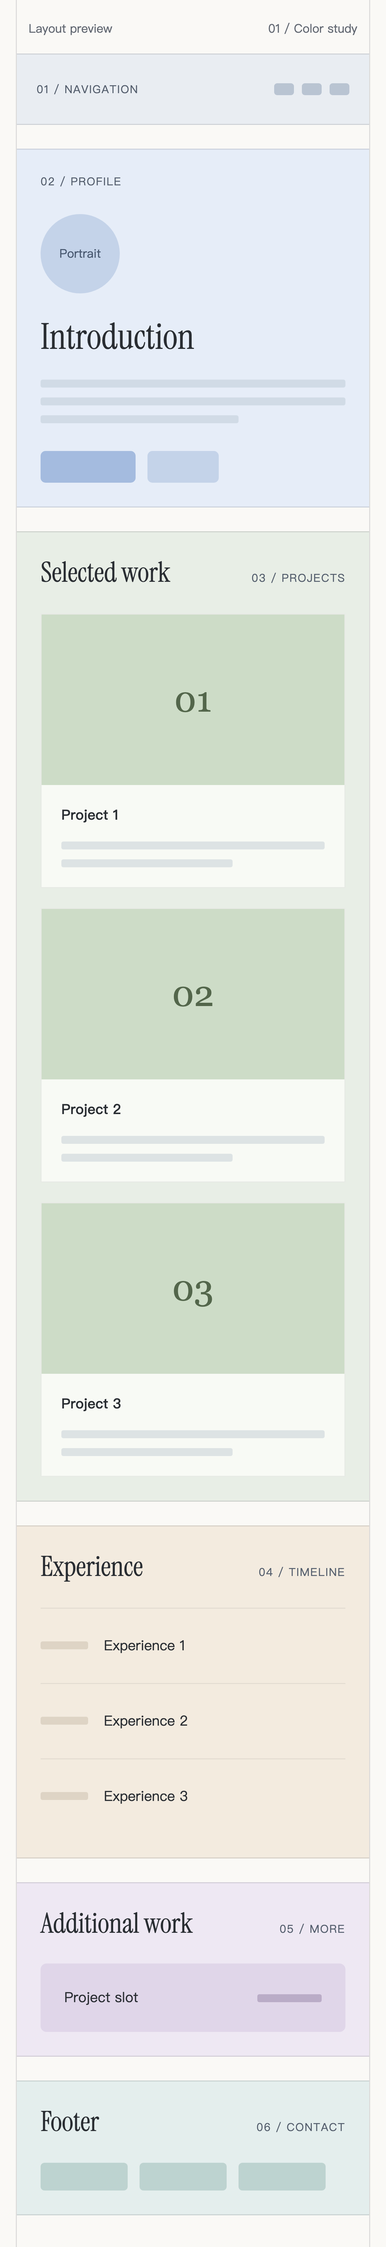
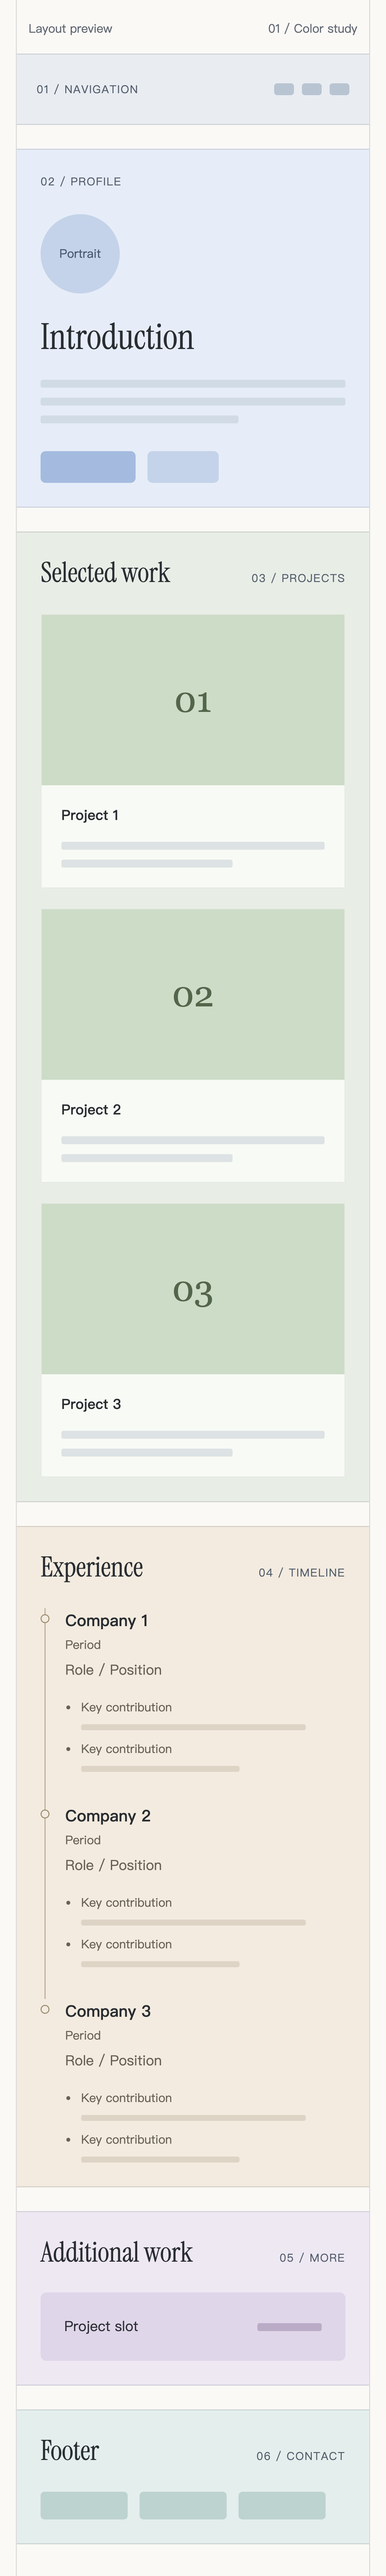
style: preview expanded experience timeline

diff --git a/src/styles/global.css b/src/styles/global.css
@@ -168,16 +168,67 @@ article {
   padding: 0;
   margin: 0;
 }
-.timeline li {
-  display: grid;
-  grid-template-columns: 80px 1fr 100px;
-  align-items: center;
-  gap: 24px;
-  min-height: 76px;
-  border-top: 1px solid #292d3214;
+.timeline > li {
+  position: relative;
+  padding: 0 0 32px 28px;
+  border-left: 1px solid #b7aa94;
+  margin-left: 4px;
   font-size: 14px;
 }
-.date-slot,
+.timeline > li:last-child {
+  padding-bottom: 0;
+  border-left-color: transparent;
+}
+.timeline > li::before {
+  content: "";
+  position: absolute;
+  width: 9px;
+  height: 9px;
+  left: -5px;
+  top: 6px;
+  border: 1px solid #9e8e73;
+  border-radius: 50%;
+  background: #f3ebdf;
+}
+.experience-heading {
+  display: flex;
+  flex-wrap: wrap;
+  align-items: baseline;
+  justify-content: space-between;
+  gap: 8px 24px;
+}
+.experience-heading h3 {
+  font-size: 16px;
+  margin: 0;
+}
+.experience-period {
+  font-size: 12px;
+  color: #686154;
+}
+.experience-role {
+  margin-top: 6px;
+  color: #686154;
+}
+.contributions {
+  display: grid;
+  gap: 10px;
+  list-style: disc;
+  padding-left: 16px;
+  margin-top: 18px;
+  font-size: 12px;
+  color: #686154;
+}
+.contribution-line {
+  display: block;
+  width: 85%;
+  height: 6px;
+  margin-top: 8px;
+  background: #b2a58e52;
+  border-radius: 2px;
+}
+.contributions li:last-child .contribution-line {
+  width: 60%;
+}
 .detail-slot {
   height: 8px;
   background: #b2a58e52;
@@ -259,11 +310,11 @@ article {
   h2 {
     font-size: 28px;
   }
-  .timeline li {
-    grid-template-columns: 48px 1fr;
-    gap: 16px;
+  .experience-heading {
+    flex-direction: column;
+    gap: 4px;
   }
-  .timeline .detail-slot {
-    display: none;
+  .timeline > li {
+    padding-left: 20px;
   }
 }

diff --git a/docs/layout-review.md b/docs/layout-review.md
@@ -12,7 +12,10 @@ Keep the issue open and do not begin the next content ticket until approval is r
 - Six distinguishable, softly colored regions: navigation, introduction,
   selected work, experience, additional work, and footer.
 - A generous introduction followed immediately by three equally weighted project
-  slots. Three concise timeline rows and one additional-work slot follow.
+  slots. Three expanded timeline entries and one additional-work slot follow.
+  Each entry reserves space for company, period, role, and two key contributions;
+  markers and a vertical rule connect the entries. On phones the period stacks
+  below the company. No disclosure interaction is needed.
 - At 640px and below, project cards stack, the portrait moves above the
   introduction, and outer gutters reduce to 16px with 24px section gaps.
 - Warm white background, charcoal labels, subtle borders, and restrained blue
@@ -78,7 +81,8 @@ navigation region did not exist. After implementation, both tests passed.
 
 Revision requested by Caven: introduce a line-based treatment and reconsider the
 960px column. The revised preview caps the column at 768px and adds continuous
-side rules and horizontal section dividers. This request is not final approval.
+side rules and horizontal section dividers. Caven also requested an expanded Experience placeholder preview with company,
+period, role, and two contributions per entry. These requests are not final approval.
 
 Pending. Review the relative width, section spacing, introduction height,
 project-card proportions, and mobile reading order. Record Caven's decision
